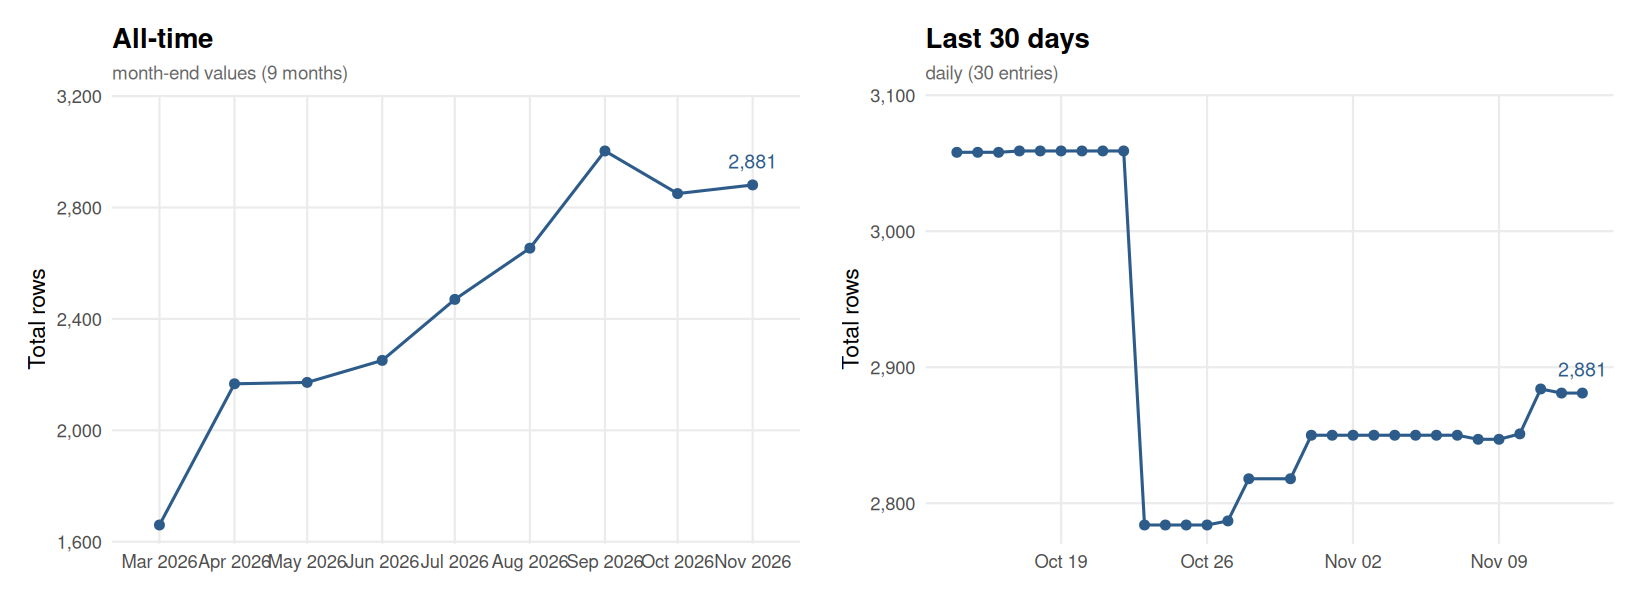
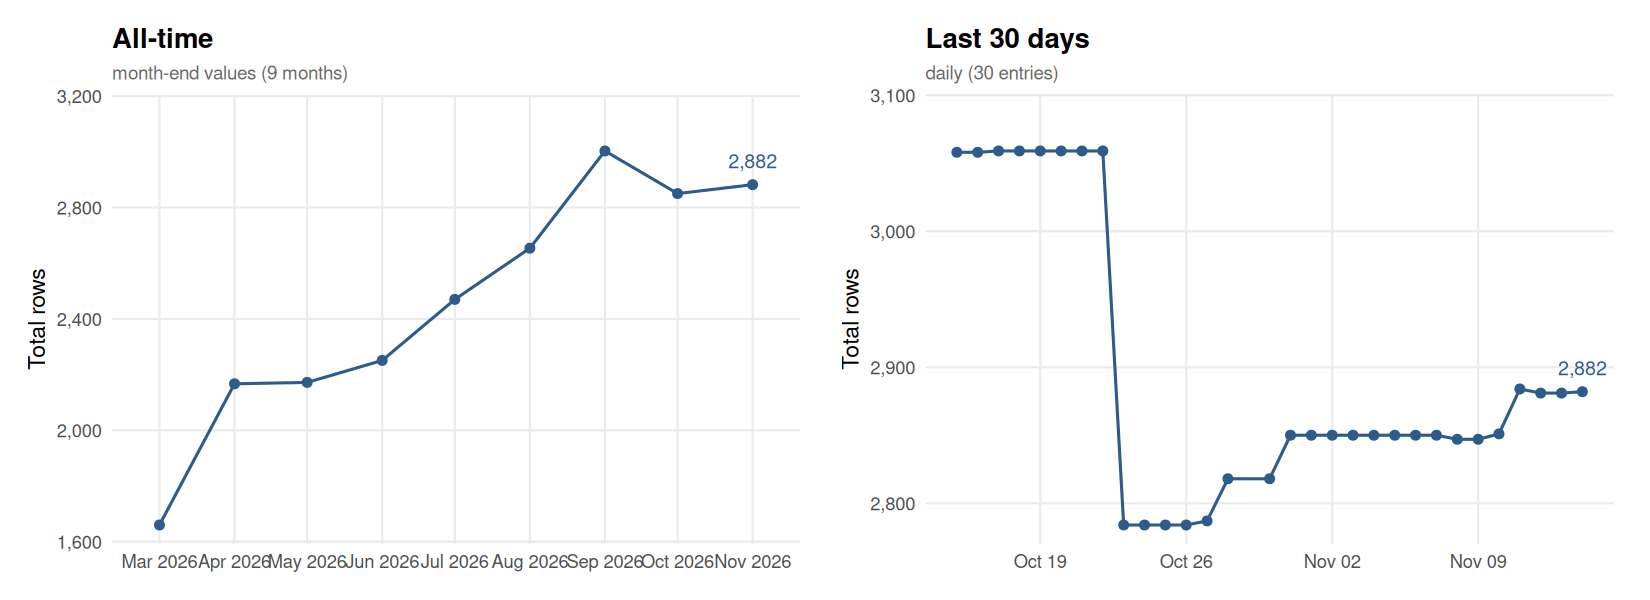
Sync flora.csv from flora-validation [automated]

diff --git a/README.md b/README.md
@@ -445,14 +445,15 @@ For API issues:
 This chart is automatically updated after each daily sync from flora-validation, showing the size of `output/flora.csv` over time.
 
 <!-- FLORA_UPDATE_LOG_START -->
-> **Latest (2026-11-13):** Total = 2,881 | Replications = 2,655 | Reproductions = 226
+> **Latest (2026-11-14):** Total = 2,882 | Replications = 2,656 | Reproductions = 226
 
 ![FLoRA dataset size over time](output/flora_history.png)
 
-<details><summary>Full history (231 entries)</summary>
+<details><summary>Full history (232 entries)</summary>
 
 | Date | Total | Replications | Reproductions |
 |------|------:|-------------:|--------------:|
+| 2026-11-14 | 2882 | 2656 | 226 |
 | 2026-11-13 | 2881 | 2655 | 226 |
 | 2026-11-12 | 2881 | 2655 | 226 |
 | 2026-11-11 | 2884 | 2658 | 226 |
